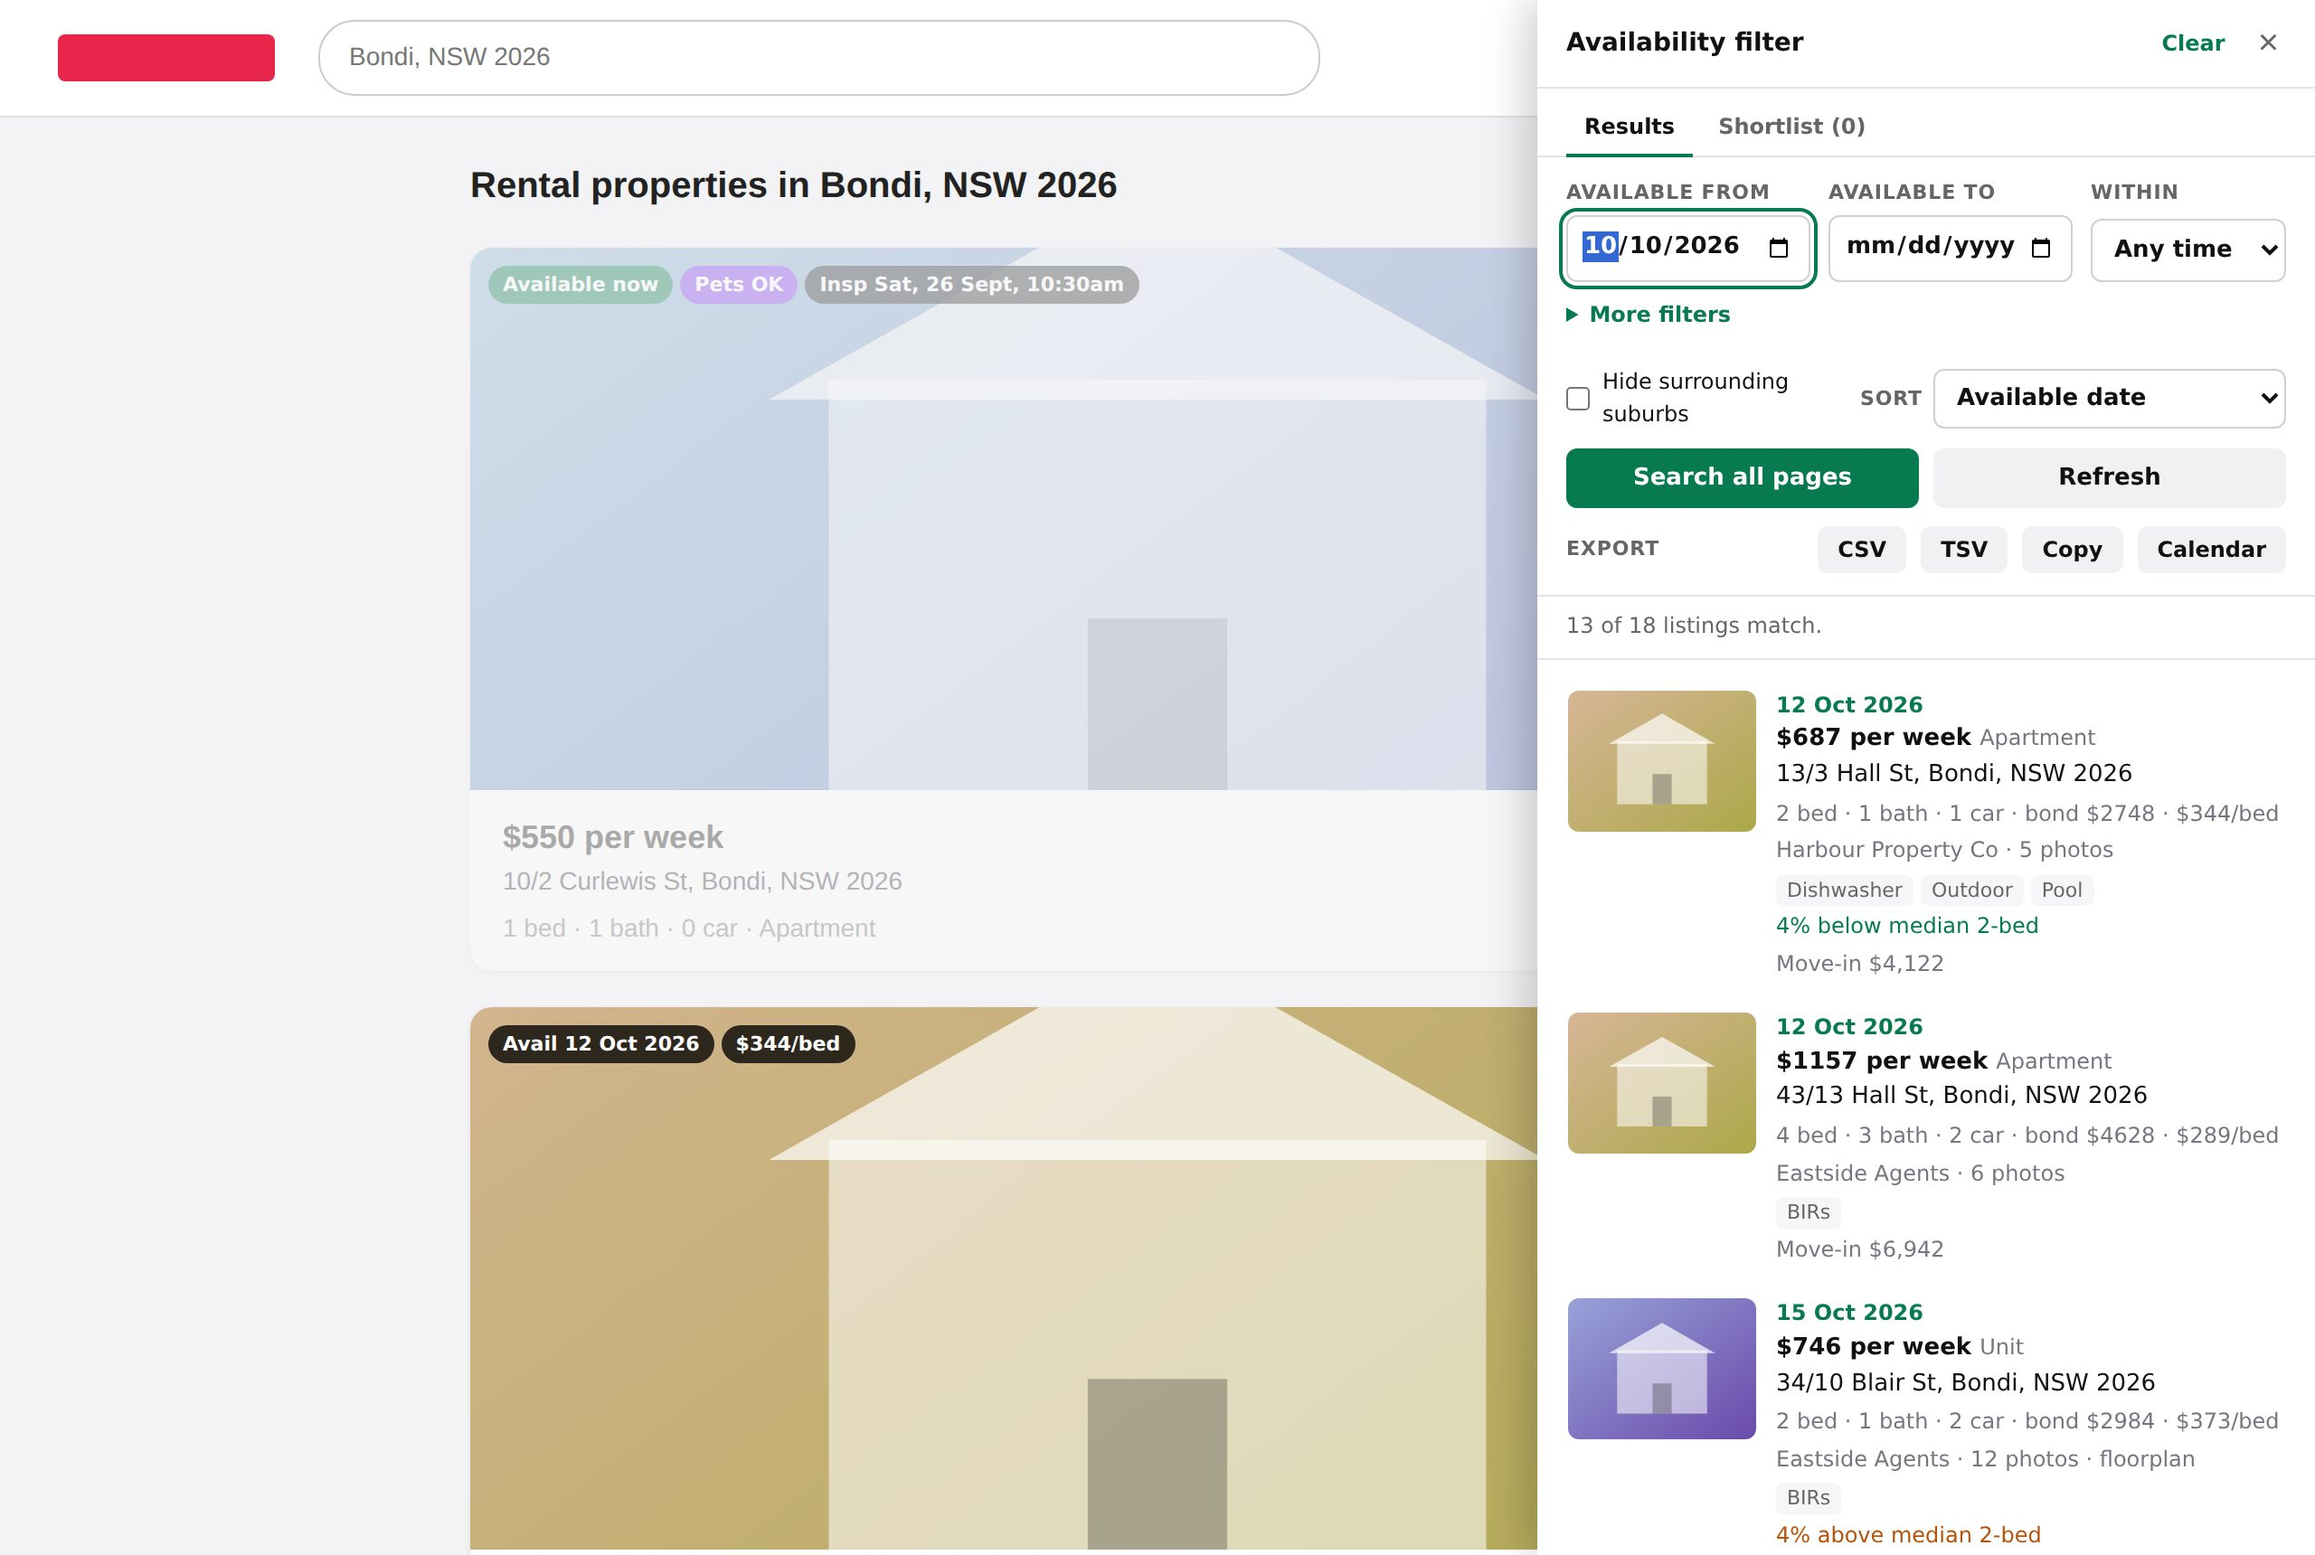
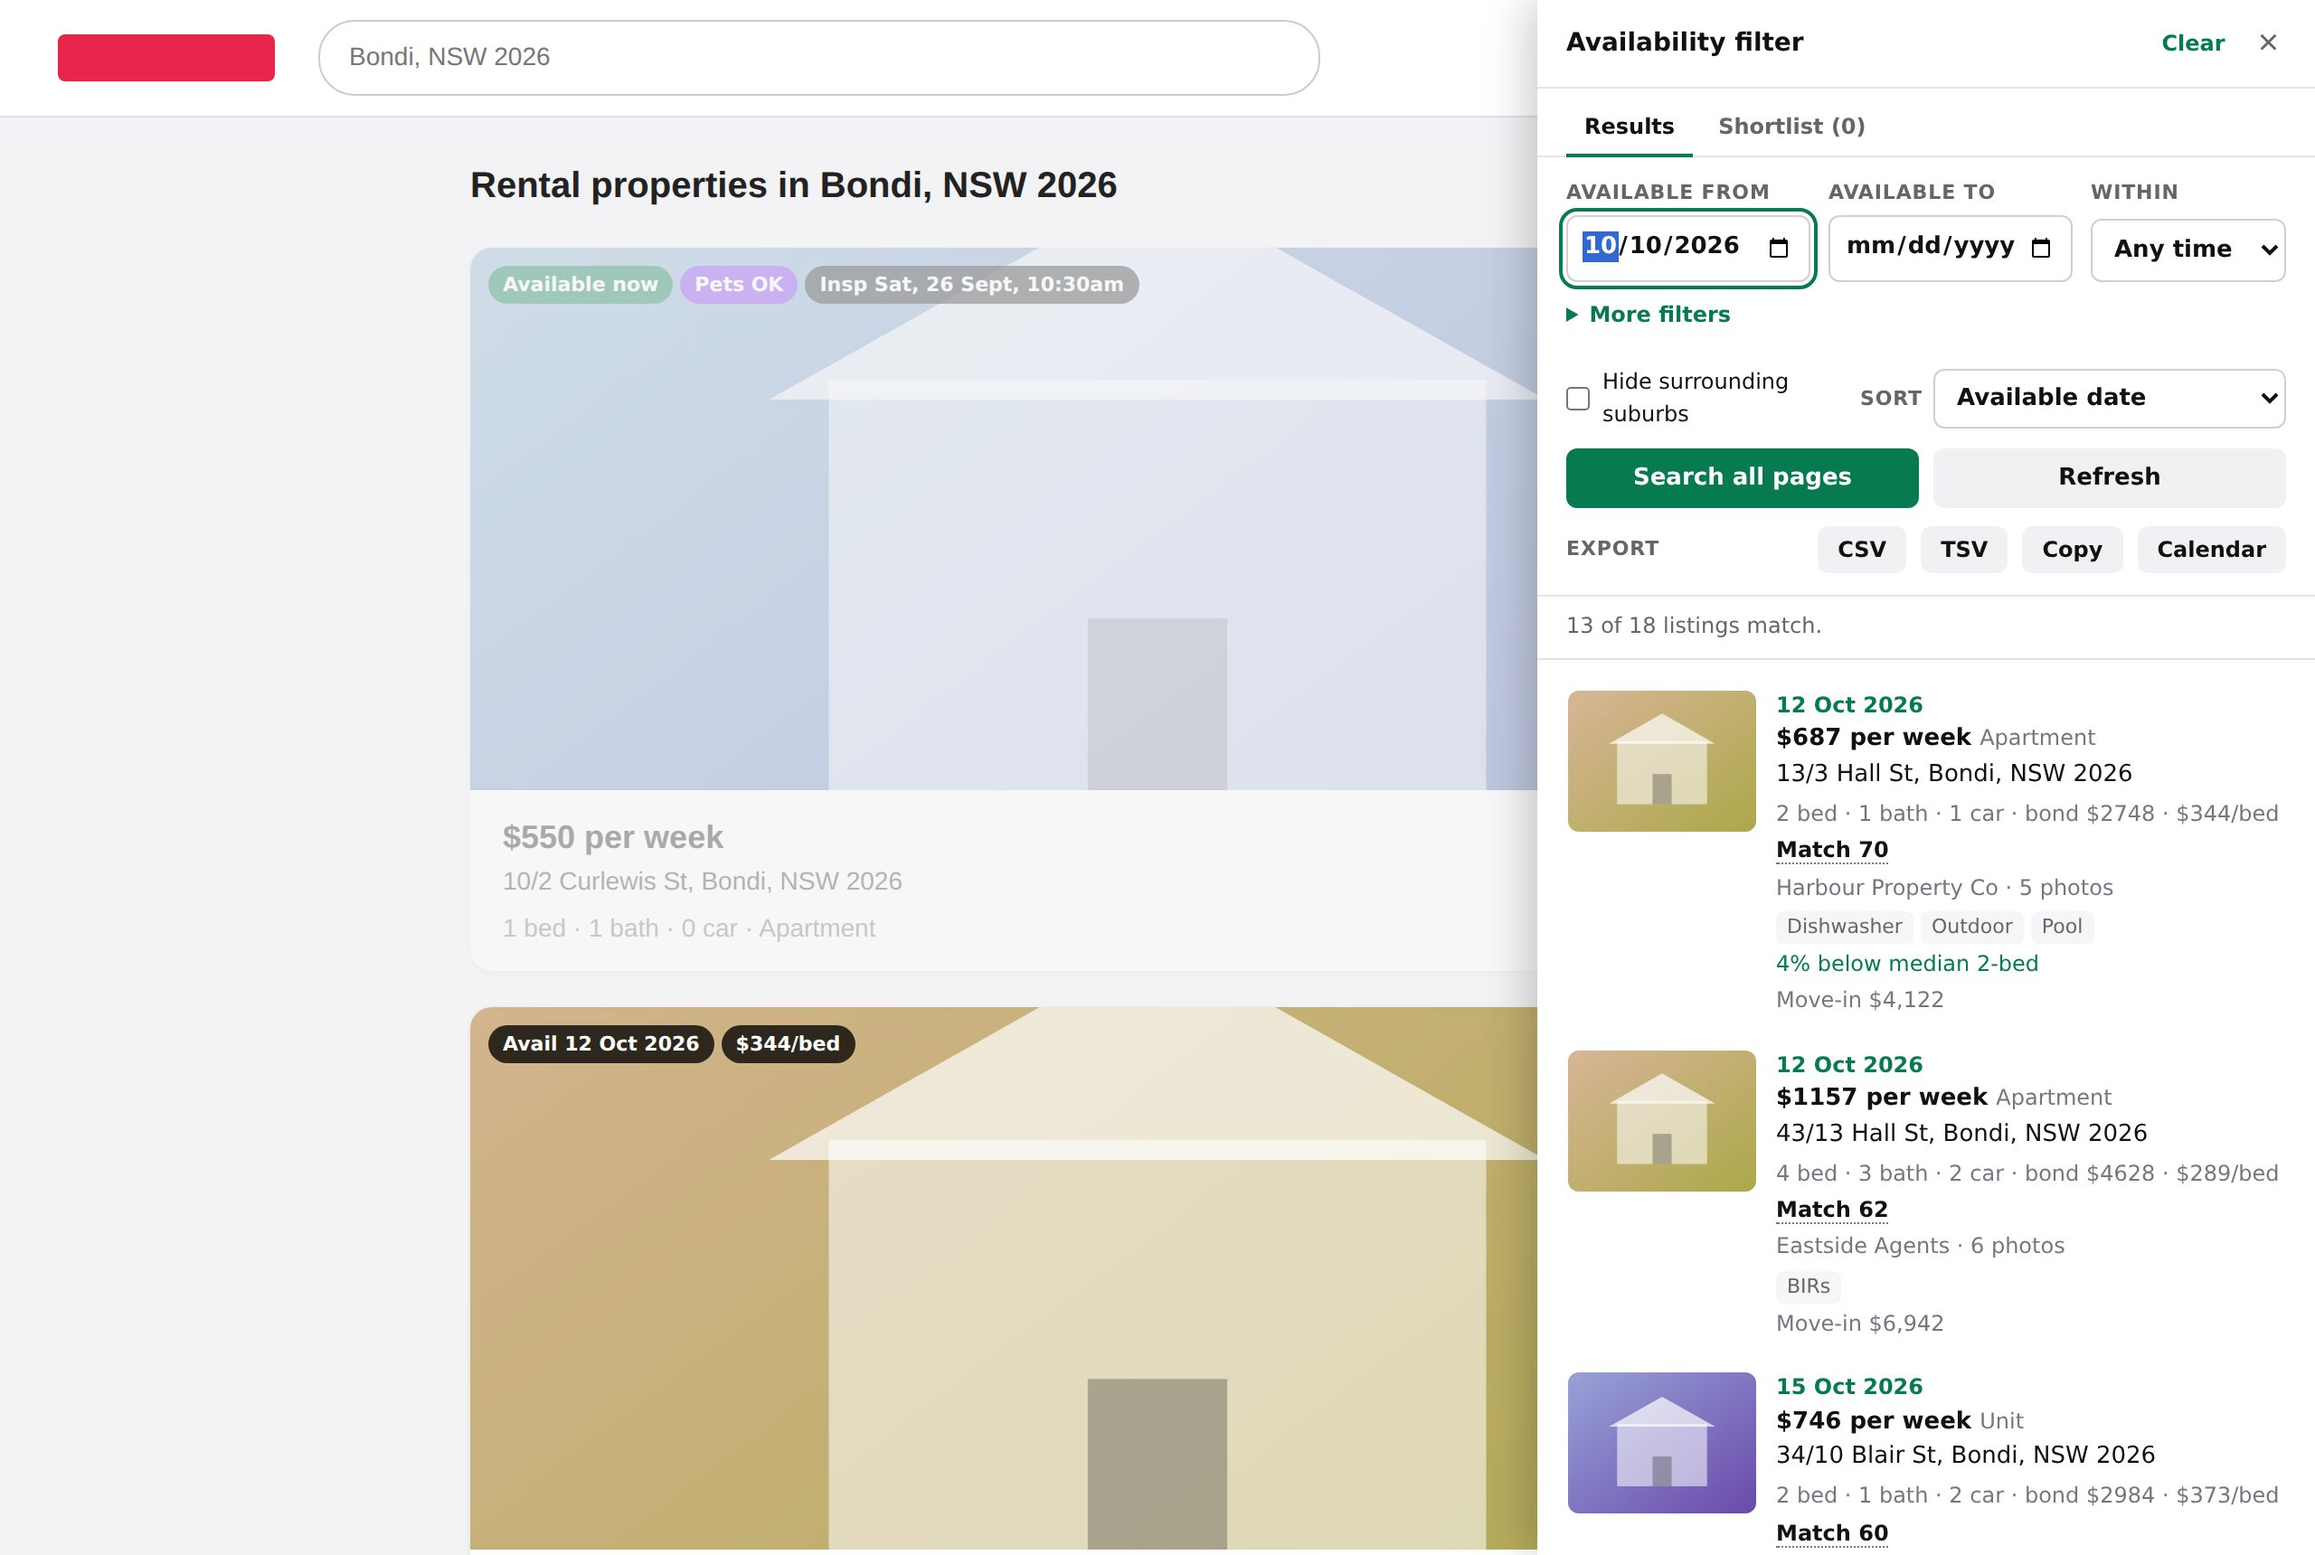
Bump 2.6.0; docs; compare screenshot

Changed region(s): [[0.6562, 0.5238, 0.9688, 1.0]]

diff --git a/rea-availability-filter.user.js b/rea-availability-filter.user.js
@@ -1,7 +1,7 @@
 // ==UserScript==
 // @name         REA Availability Filter
 // @namespace    https://github.com/cpwillis/rea-enhancement
-// @version      2.5.0
+// @version      2.6.0
 // @description  Availability-date filtering and sorting, extra filters, cross-page merging, on-card availability badges and CSV/TSV export for realestate.com.au rental searches.
 // @author       cpwillis
 // @homepageURL  https://github.com/cpwillis/rea-enhancement

diff --git a/README.md b/README.md
@@ -25,7 +25,7 @@ Updates are automatic: Tampermonkey checks `@updateURL` (the file on `main`) and
 - **Amenities**: pets, furnished, air con, dishwasher, own laundry, outdoor space, built-in robes, pool. Click a chip to require it, again to exclude it. Read from REA's feature list and the description ("no pets" counts as no); unknown never counts as yes.
 - **Distance** from any point: paste coordinates or a Google Maps link (right-click a spot, copy the numbers). Shows km on every listing, filters by max km, sorts nearest first. Straight-line distance, no lookups.
 - **Hide an agency** you've ruled out (undo, or unhide later); photo count and "Has a floorplan" filter.
-- Sort by available date, price, price per bed, best value vs median, most beds, next inspection, newest first.
+- Sort by available date, price, price per bed, best value vs median, **best match**, nearest, most beds, next inspection, newest first. Best match is a 0-100 score from rent vs your budget (or the median), timing vs your "from" date, distance and move-in cost; hover it to see the parts.
 - **Move-in cost** (bond + 2 weeks' rent) on every listing; bonds above 4 weeks' rent are flagged.
 - **Rent vs median** for the same bed count in your results (eg "12% below median 2-bed").
 - Walks every results page of the current search (max 20), dedupes, and says when a search is too broad to read fully.
@@ -39,11 +39,14 @@ Updates are automatic: Tampermonkey checks `@updateURL` (the file on `main`) and
 **Shortlist, hide, new, price changes**
 - Star a listing to shortlist it, or hide one you've ruled out. Both persist in your browser.
 - The **Shortlist** tab collects starred listings from every search you've run, with a private note and an **application status** (to inspect, inspected, applied, approved, declined) per listing; filter by status and export it.
+- **Compare** up to 6 shortlisted listings side by side, best value per row highlighted.
 - **Backup / Restore** the shortlist, hidden listings, notes and remembered searches as a JSON file, eg to move to another browser.
 - **Remembers each search between visits** (on by default; a setting turns it off and forgets what's stored). Coming back shows the saved results straight away, and **Refresh** fetches current listings and diffs them: listings added since your last visit are tagged **new** (filter: "New since last visit only"), and ones taken down are counted and can be shown greyed out. Sort **Newest first** to see additions in order of listing.
-- Price changes show "was $X".
+- Price changes show "was $X" (hover for the full history). A listing relisted at the same address under a new id is tagged **relisted** with its old price, and stays hidden if you'd hidden it.
 
 ![Shortlist and price-change tags](docs/screenshots/shortlist.jpg)
+
+![Compare shortlisted listings](docs/screenshots/compare.jpg)
 
 **Export**: CSV (opens cleanly in Excel), TSV, copy to clipboard for Google Sheets, or **Calendar** (.ics) with every upcoming inspection time for your results or shortlist. Spreadsheet columns include weekly rent, $/bed, move-in cost, vs-median, inspections, shortlist, application status and previous price.
 

diff --git a/CHANGELOG.md b/CHANGELOG.md
@@ -2,6 +2,17 @@
 
 Versions match the userscript's `@version`; installs auto-update from `main` when it increases.
 
+## 2.6.0
+
+- Shortlist **Compare** table: up to 6 listings side by side (rent, $/bed, move-in, availability, beds/baths/cars, distance, next inspection, amenities, agency, status, note), best values highlighted; the drawer widens for it.
+- **Best match** score and sort: an explainable 0-100 from rent vs budget (or median), timing vs your "from" date, distance and move-in cost.
+- **Price history** (last 10 changes) in a tooltip and export; **relist detection**: a listing that reappears at the same address under a new id is tagged "relisted" with the old price, and stays hidden if you'd hidden it. Two live listings at one address are not treated as a relist.
+- Amenity detection tightened: "Pets allowed: No" and similar key/value text, "no balcony/pool/robes", shared/communal facilities, nearby or car pools, "furnished or unfurnished"; address and property type ignored.
+- Field discovery precision: skips agent/agency/school/nearby/history subtrees for coordinates and dates, agency names must come from objects, discovered inspections must have times, tiny numbers aren't dates; reuses the last good path and skips shapes already searched (about 5x faster on big listings).
+- Distance accepts Google Maps pins (`!3d…!4d…`), no-comma, degrees N/S/E/W, Unicode minus and lng-first input.
+- Hide agency: hidden-agency rows dim with "Show hidden" and offer "Unhide agency".
+- Remembered rows keep computed amenities.
+
 ## 2.5.0
 
 - Field discovery: when REA's known field names are missing, the listing is searched by shape (bounded) for inspections, listed date, coordinates, agency and features; `reaFilter.probe()` reports discovered paths.
